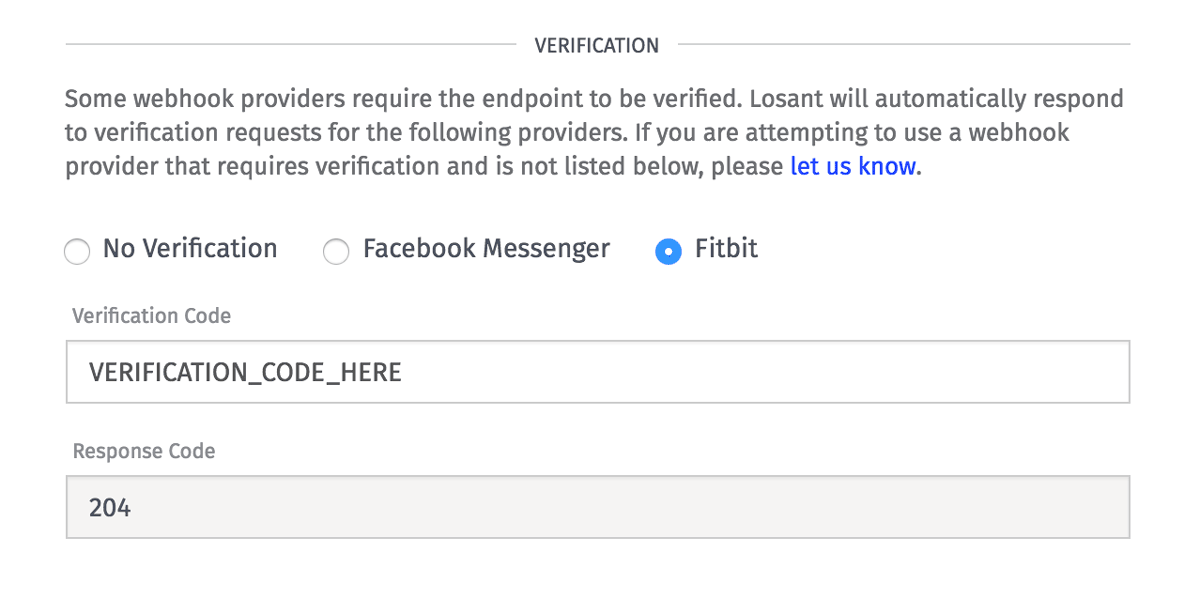
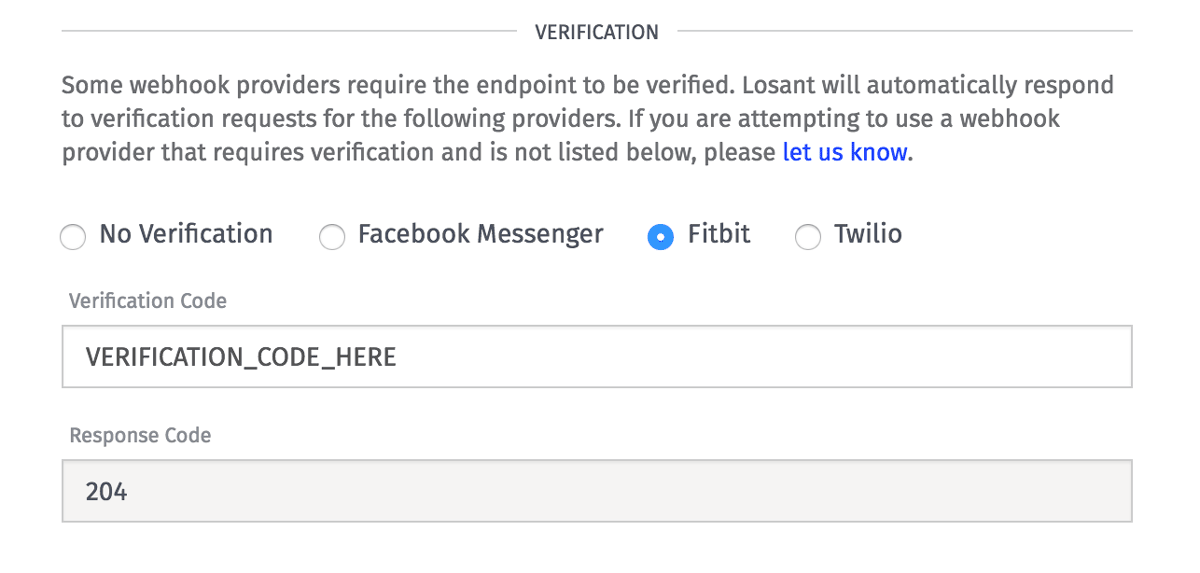
doc updates

diff --git a/docs/applications/webhooks.md b/docs/applications/webhooks.md
@@ -27,13 +27,15 @@ A unique URL is generated for every webhook and can found on the `Edit Webhook` 
 Certain third party services, such Facebook, require webhooks to be verified
 before use.  Generally this involves the webhook responding with a particular response
 or response code to a particular kind of query.  Losant currently has support for
-verifying a webhook against Facebook or Fitbit:
+verifying a webhook against Facebook, Fitbit, or Twilio:
 
 ![Fitbit Webhook Verification](/images/applications/fitbit-webhook-verification.png "Fitbit Webhook Verification")
 
 In the example above, the webhook is configured for Fitbit verification with the verification code `VERIFICATION_CODE_HERE` (and the hardcoded response code `204`, since Fitbit expects 204 responses).  For Fitbit, you can find the verification code to use in the `Subscriptions` table for your Fitbit application (after adding a webhook url as a Fitbit subscription).  You can read more about Fitbit webhook verification <a href="https://dev.fitbit.com/docs/subscriptions/#verify-a-subscriber" target="_blank">here</a>.
 
 You can also choose to verify as a Facebook webhook.  In the case of Facebook, you provide your own verification code - on Facebook's side, it is called a `Verify Token`.  What you provide to Facebook as the Verify Token and what you provide to Losant as the Verification Code can be anything, as long as they match.  You can read more about Facebook webhook verification <a href="https://developers.facebook.com/docs/graph-api/webhooks" target="_blank">here</a>.
+
+Twilio does not actually require verification, but requires a very specific response in order for Twilio not to consider it an error - a TwiML XML response.  Selecting the Twilio option tells Losant to reply with a body that Twilio expects (an empty TwiML response) so that the webhook call does not look like an error to Twilio.
 
 By default, the option of "No Verification" is selected for a webhook.  In this case, while there is no need for a verification code, we do allow you to specify the response code that Losant should respond with on when it receives a webhook request.  By default this is `200`, but can be changed to whatever response code is expected by the system sending the web request.
 

diff --git a/docs/devices/overview.md b/docs/devices/overview.md
@@ -101,3 +101,24 @@ The `Force State in Losant` section of the device page allows you to report stat
 The `Send Device Command` section of the device page allows you to send commands to your devices. This is useful if your debugging and during initial implementation of command support for your devices.
 
 ![Send Command](/images/devices/send-command.png "Send Command")
+
+#### Data Export
+
+![Request Data Export](/images/devices/data-export.png "Request Data Export")
+
+You can request a CSV export of the state data that Losant has for your device using the "Request Data Export" button.  This will generate a CSV file of the state data for your device and send you an email when the generation is complete. The email includes a link which will allow you to download the generated file (the link is time sensitive and will only work for 24 hours). The generated csv will have a timestamp column (where the timestamp will be represented as milliseconds since epoch), as well as columns for any attributes of your device. Each row will represent one reported state for the device.  The following is an example export for a device with a "location" and a "temperature" attribute:
+
+```csv
+time,location,temperature
+1467391295000,"17.060258678655675,-18.965965126906564",25.2
+1467391325000,"15.44856967605903,-17.68055596850872",25.1
+1467391355000,"14.08786621979826,-16.618000514802763",25.2
+1467391385000,"12.584784055193989,-15.465453903687301",25.3
+1467391415000,"11.086833923977336,-14.336184577263243",25.3
+```
+
+#### Data Deletion
+
+![Delete Device Data](/images/devices/data-deletion.png "Delete Device Data")
+
+In the case where you no longer want the data for a device or you want to clear out old incorrect data, you can do so with the "Delete Device Data" button.  This will remove all data for the device - state data for attributes, connection log history, and command history. Data deletion may take a few seconds to propagate through the system, but cannot be reversed or undone, so do not press this button lightly!

diff --git a/docs/workflows/data/get-value.md b/docs/workflows/data/get-value.md
@@ -6,7 +6,7 @@ The get value node allows a workflow to retrieve a value stored in a previous ru
 
 ## Configuration
 
-There are three configuration properties for the get value node - an identifier, a payload path, and an optional default value. The identifier is how the workflow knows what value to retrieve - and while it can be an arbitrary string, it should match the identifier of a previously stored value - i.e., the identifier used in the configuration of a [store value node](/workflows/data/store-value/).  The payload path is a JSON path which defines where the workflow should place the retrieved value on the current payload.  The optional default value is only used if there is no value previously stored with the specified identifier - in which case, the specified default value is placed on the payload instead. There are a couple choices for configuring the default value:
+There are three configuration properties for the get value node - an identifier, a payload path, and an optional default value. The identifier is how the workflow knows what value to retrieve - and while it can be an arbitrary string (and is templateable), it should match the identifier of a previously stored value - i.e., the identifier used in the configuration of a [store value node](/workflows/data/store-value/).  The payload path is a JSON path which defines where the workflow should place the retrieved value on the current payload.  The optional default value is only used if there is no value previously stored with the specified identifier - in which case, the specified default value is placed on the payload instead. There are a couple choices for configuring the default value:
 
 *   With **Payload Path**, what should be provided is a json path - and the node will evaluate that path against the current payload to determine the default value to use.
 *   **Template** means the value will be evaluated as a standard templatable field, and the result will be the default value to use.

diff --git a/docs/workflows/data/store-value.md b/docs/workflows/data/store-value.md
@@ -6,7 +6,7 @@ The store value node allows a workflow to store a value for retrieval and use in
 
 ## Configuration
 
-There are two configuration properties for the store value node - an identifier and a source. The identifier is how the workflow identifies the value being stored.  This identifier is what should be used in subsequent [get value node](/workflows/data/get-value/) nodes that want to load this value in other runs of the workflow.  The source is the value to actually store, and can be one of a couple different options:
+There are two configuration properties for the store value node - an identifier and a source. The identifier is how the workflow identifies the value being stored.  This identifier is what should be used in subsequent [get value node](/workflows/data/get-value/) nodes that want to load this value in other runs of the workflow, and can be any string (and is templateable).  The source is the value to actually store, and can be one of a couple different options:
 
 *   **Payload Path** is the most common, and the one displayed in the example below.  With this option, the source should be a JSON path defining where in the current payload the value to store will be. If the payload path does not actually exist in the current payload, the currently stored value (if there is one) will be deleted.
 *   **Template** means the value will be evaluated as a standard templatable field, and the result will be the value to store.
